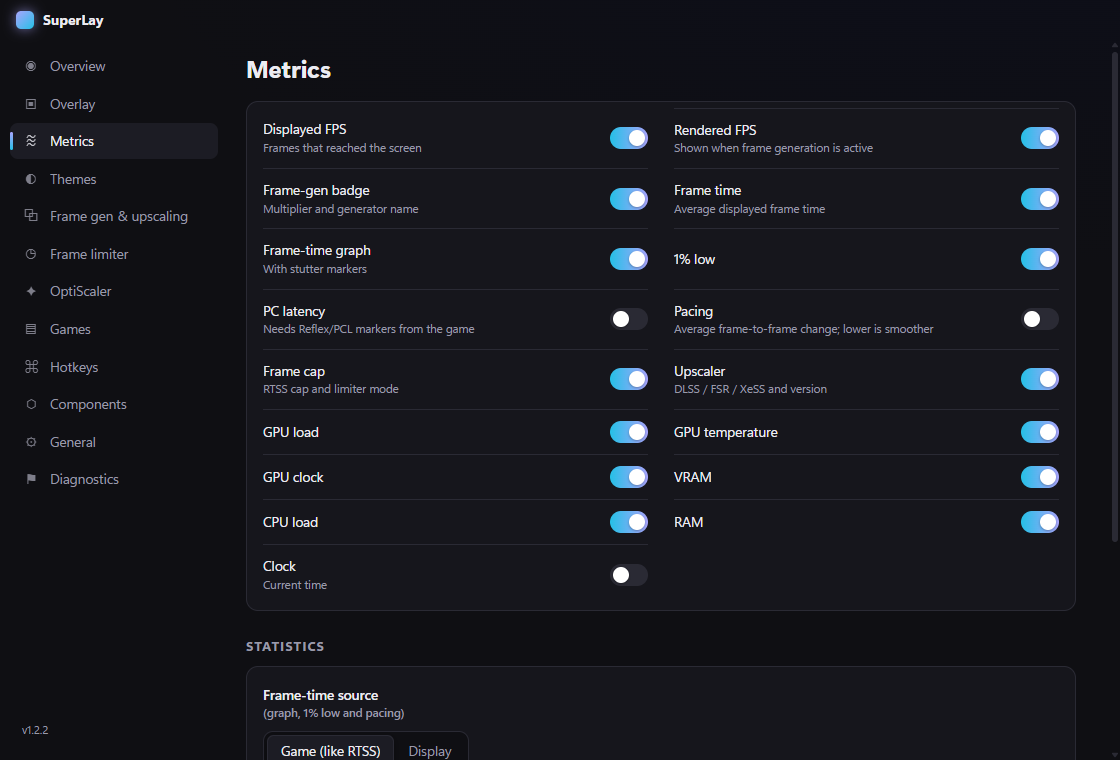
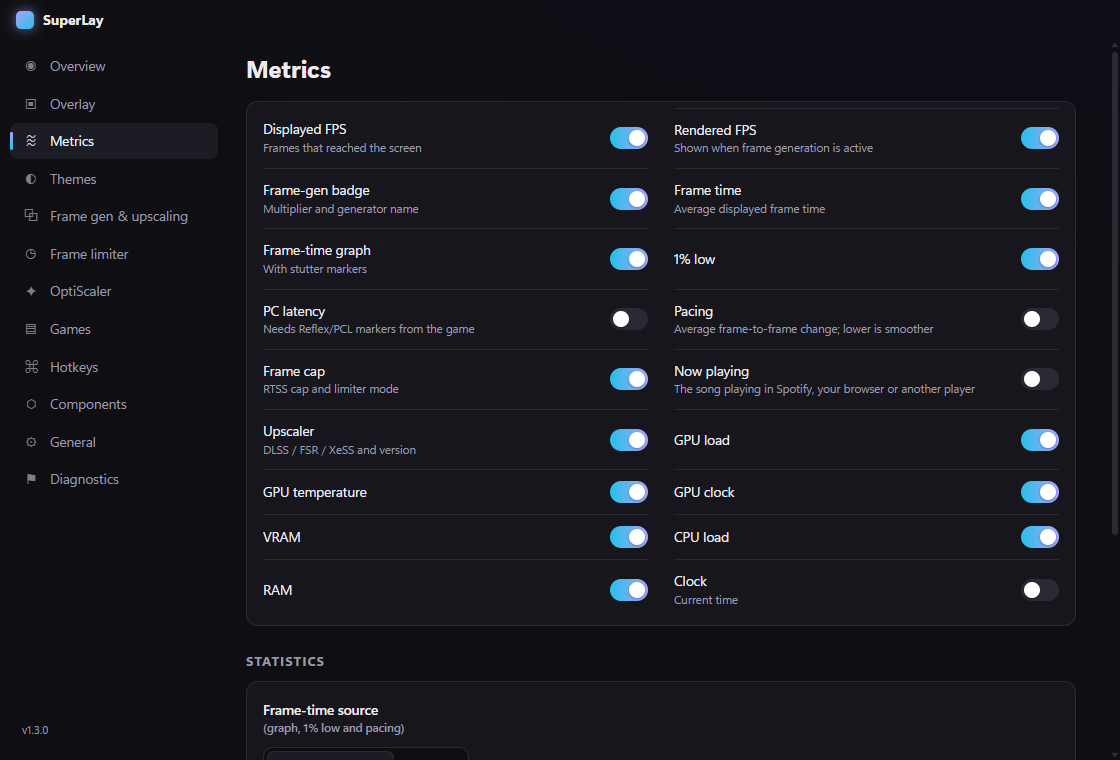
Detect Wuthering Waves-style frame gen; show caps; layout names
- Cadence detection looks for the heavy/light rhythm (1 light per heavy = 2x,
  2 = 3x) instead of a fixed 2.5x GPU-time ratio: Wuthering Waves' generated
  frames cost ~3.2 ms vs ~6.6 ms. GPU wait carries the rhythm when GPU busy
  converges in light scenes (9-32x split there); GPU time was rejected after a
  browser compositor fooled it. On after 3 agreeing windows, off after 3, and a
  1 s hold, so games that toggle FG in menus update promptly
  Replays: WuWa 90/92 ON (was 0), Witcher 3 variants 70-72/72, no-FG captures
  (Forza, Claude app with a forced FG hint) 0 ON. Live in WuWa: 69/72, the
  first 3 are warm-up
- "capped at N" next to the rendered count when FG output sits at the frame cap,
  so 90 rendered at a 180 cap reads clearly
- "Now playing" toggle on the Metrics page (synced with the Hotkeys page)
- Layout picker: labels match the shapes (Bar, Card, Pill; ids unchanged) and
  icons show a miniature of each overlay

diff --git a/src/main/presentmon.js b/src/main/presentmon.js
@@ -137,6 +137,7 @@ class PresentMon extends EventEmitter {
         display: idx('MsBetweenDisplayChange', 'msBetweenDisplayChange'),
         sim: idx('MsBetweenSimulationStart'),
         gpuBusy: idx('MsGPUBusy', 'msGPUActive'),
+        gpuWait: idx('MsGPUWait'),
         pcl: idx('MsPCLatency'),
         input: idx('MsAllInputToPhotonLatency', 'MsClickToPhotonLatency'),
         dropped: idx('Dropped'),
@@ -176,6 +177,7 @@ class PresentMon extends EventEmitter {
       type,
       sim: c.sim >= 0 ? num(f[c.sim]) : null,
       gpu: c.gpuBusy >= 0 ? num(f[c.gpuBusy]) : null,
+      gw: c.gpuWait >= 0 ? num(f[c.gpuWait]) : null,
       lat: (c.pcl >= 0 ? num(f[c.pcl]) : null) ?? (c.input >= 0 ? num(f[c.input]) : null),
     });
     if (ch.rows.length > 4000 && ch.rows[0].t < this.now - KEEP_MS) this.trim(ch);
@@ -234,7 +236,7 @@ class PresentMon extends EventEmitter {
 
     let dispN = 0, dispMs = 0, genN = 0, repeatN = 0, presN = 0, presMs = 0;
     let latSum = 0, latN = 0;
-    const gpu = [];
+    const gpu = [], gpuWait = [];
     const genTypes = new Set();
     let anyDisplay = false, anyType = false;
 
@@ -264,7 +266,10 @@ class PresentMon extends EventEmitter {
       if (!generated && r.between !== null && r.between > 0) { presN++; presMs += r.between; }
       if (r.lat !== null && r.lat > 0) { latSum += r.lat; latN++; }
       // 0 ms GPU busy is meaningful: untagged generated frames often show exactly that.
-      if (r.gpu !== null && r.gpu >= 0 && !generated) gpu.push(r.gpu);
+      if (!generated) {
+        if (r.gpu !== null && r.gpu >= 0) gpu.push(r.gpu);
+        if (r.gw !== null && r.gw >= 0) gpuWait.push(r.gw);
+      }
     }
 
     const presentFps = presMs > 0 ? (presN * 1000) / presMs : 0;
@@ -288,16 +293,18 @@ class PresentMon extends EventEmitter {
       } else if (simFps > 0 && displayedFps / simFps > 1.4) {
         renderedFps = simFps; multiplier = displayedFps / simFps; source = 'pcl';
       } else {
-        const m = this.cadenceMultiplier(pid, gpu);
+        // collected newest-first; the rhythm reads the same either way but keep it chronological
+        const m = this.cadenceMultiplier(pid, { busy: gpu.reverse(), wait: gpuWait.reverse() });
         if (m > 1) { multiplier = m; renderedFps = displayedFps / m; source = 'cadence'; }
       }
     }
-    // Hysteresis: FG turns on at once, but only turns off after 1.5 s without evidence, so a sparse signal
-    // can't make the badge blink. An explicit "off" setting applies immediately.
+    // Hysteresis: FG turns on at once, but only turns off after 1 s without evidence, so a sparse signal
+    // can't make the badge blink while games that really toggle FG (menus vs. world) still update promptly.
+    // An explicit "off" setting applies immediately.
     const hold = this.fgHold.get(pid);
     if (multiplier > 1.25) {
       this.fgHold.set(pid, { at: now, multiplier, source, name: fgName });
-    } else if (hold && now - hold.at < 1500 && multiplierSetting !== 'off' && displayedFps > 0) {
+    } else if (hold && now - hold.at < 1000 && multiplierSetting !== 'off' && displayedFps > 0) {
       ({ multiplier, source } = hold);
       fgName = fgName || hold.name;
       renderedFps = displayedFps / multiplier;
@@ -362,34 +369,55 @@ class PresentMon extends EventEmitter {
   }
 
   /**
-   * Generated frames are cheap on the GPU (an interpolation pass) while real frames carry the
-   * whole render. If per-present GPU busy time splits cleanly into a heavy and a light group,
-   * presents/heavy is the multiplier. Requires agreement across several windows before trusting it.
+   * Untagged frame generation shows up as a rhythm in per-present GPU work: each real frame (heavy: the whole
+   * render) is followed by N generated ones (light: an interpolation pass). Generated frames aren't always
+   * near-free (Wuthering Waves: ~3.2 ms vs ~6.6 ms), so instead of demanding a big ratio we look for the
+   * strict heavy/light rhythm, which ordinary rendering doesn't produce. Multiplier = N + 1.
+   * gpu: per-present GPU busy times in chronological order.
    */
-  cadenceMultiplier(pid, gpu) {
+  static cadenceVote(gpu, { minRatio = 1.5, minShare = 0.8 } = {}) {
+    if (gpu.length < 24) return 1;
+    // Split light/heavy at the threshold that best separates the two groups (Otsu).
+    const s = gpu.slice().sort((a, b) => a - b);
+    const total = s.reduce((a, b) => a + b, 0);
+    let best = null, lowSum = 0;
+    for (let i = 1; i < s.length; i++) {
+      lowSum += s[i - 1];
+      const nLo = i, nHi = s.length - i;
+      const mLo = lowSum / nLo, mHi = (total - lowSum) / nHi;
+      const between = nLo * nHi * (mHi - mLo) ** 2;
+      if (!best || between > best.between) best = { between, thr: (s[i - 1] + s[i]) / 2, mLo, mHi };
+    }
+    if (!best || best.mHi < Math.max(0.05, best.mLo) * minRatio) return 1;   // groups must clearly differ
+    // Lengths of light runs between heavy frames.
+    const runs = [];
+    let run = 0, started = false;
+    for (const v of gpu) {
+      if (v >= best.thr) { if (started) runs.push(run); run = 0; started = true; } else run++;
+    }
+    if (runs.length < 8) return 1;
+    const counts = {};
+    for (const r of runs) counts[r] = (counts[r] || 0) + 1;
+    const [k, n] = Object.entries(counts).sort((a, b) => b[1] - a[1])[0].map(Number);
+    return k >= 1 && k <= 3 && n / runs.length >= minShare ? k + 1 : 1;
+  }
+
+  /**
+   * Cadence vote from GPU busy and GPU wait, smoothed over recent windows: on after 3 agreeing votes, off
+   * after 3 "no FG" votes. GPU busy can lose the rhythm in light scenes (Wuthering Waves: real and generated
+   * frames both ~4.8 ms), while GPU wait keeps it with a large split (9-32x there). GPU wait must show a big
+   * split and a near-perfect rhythm; GPU time was tried and rejected: a browser's compositor fooled it.
+   */
+  cadenceMultiplier(pid, series) {
     let st = this.cadence.get(pid);
     if (!st) { st = { votes: [], value: 1 }; this.cadence.set(pid, st); }
-    let vote = 1;
-    if (gpu.length >= 24) {
-      const s = gpu.slice().sort((a, b) => a - b);
-      let best = null;
-      for (let i = Math.floor(s.length * 0.25); i <= Math.floor(s.length * 0.8); i++) {
-        const lo = s.slice(0, i), hi = s.slice(i);
-        const mlo = lo.reduce((a, b) => a + b, 0) / lo.length;
-        const mhi = hi.reduce((a, b) => a + b, 0) / hi.length;
-        const gap = s[i] / Math.max(0.05, s[i - 1]);
-        if (!best || gap > best.gap) best = { gap, ratio: mhi / Math.max(0.05, mlo), heavy: hi.length };
-      }
-      if (best && best.gap > 1.8 && best.ratio > 2.5) {
-        const m = Math.round(gpu.length / best.heavy);
-        if (m >= 2 && m <= 4) vote = m;
-      }
-    }
+    const vote = [
+      PresentMon.cadenceVote(series.busy),
+      PresentMon.cadenceVote(series.wait, { minRatio: 3, minShare: 0.9 }),
+    ].find((v) => v > 1) || 1;
     st.votes.push(vote);
-    if (st.votes.length > 6) st.votes.shift();
-    const agree = st.votes.filter((v) => v === vote).length;
-    if (agree >= 5) st.value = vote;
-    else if (st.votes.filter((v) => v === 1).length >= 4) st.value = 1;
+    if (st.votes.length > 4) st.votes.shift();
+    if (st.votes.filter((v) => v === vote).length >= 3) st.value = vote;
     return st.value;
   }
 

diff --git a/src/renderer/settings.html b/src/renderer/settings.html
@@ -62,9 +62,29 @@
           <div class="field">
             <div class="label">Layout</div>
             <div class="layout-pick" data-seg="overlay.layout">
-              <button data-v="pill"><span class="lp lp-pill"><i></i><i></i><i></i><i></i></span>Pill</button>
-              <button data-v="card"><span class="lp lp-card"><i></i><i></i><i></i></span>Card</button>
-              <button data-v="minimal"><span class="lp lp-min"><i></i></span>Minimal</button>
+              <!-- ids stay pill/card/minimal (saved settings); labels describe the shapes: Bar, Card, Pill -->
+              <button data-v="pill" title="A slim strip with every metric in one row">
+                <svg class="lp" viewBox="0 0 96 56" aria-hidden="true">
+                  <rect class="lp-ov" x="6" y="6" width="84" height="11" rx="5.5"/>
+                  <rect class="lp-acc" x="10" y="9" width="10" height="5" rx="1.5"/>
+                  <polyline class="lp-ln" points="24,13 27,11 30,12.5 33,10 36,12 39,11"/>
+                  <rect class="lp-dim" x="43" y="10" width="8" height="3" rx="1.5"/><rect class="lp-dim" x="54" y="10" width="8" height="3" rx="1.5"/>
+                  <rect class="lp-dim" x="65" y="10" width="8" height="3" rx="1.5"/><rect class="lp-dim" x="76" y="10" width="10" height="3" rx="1.5"/>
+                </svg>Bar</button>
+              <button data-v="card" title="A panel with large FPS, graph and meters">
+                <svg class="lp" viewBox="0 0 96 56" aria-hidden="true">
+                  <rect class="lp-ov" x="6" y="5" width="30" height="46" rx="5"/>
+                  <rect class="lp-acc" x="10" y="10" width="14" height="6" rx="1.5"/>
+                  <polyline class="lp-ln" points="10,25 14,22 18,24 22,20 26,23 32,21"/>
+                  <rect class="lp-dim" x="10" y="30" width="22" height="3" rx="1.5"/><rect class="lp-dim" x="10" y="36" width="18" height="3" rx="1.5"/>
+                  <rect class="lp-dim" x="10" y="42" width="20" height="3" rx="1.5"/>
+                </svg>Card</button>
+              <button data-v="minimal" title="Just the frame rate, as small as it gets">
+                <svg class="lp" viewBox="0 0 96 56" aria-hidden="true">
+                  <rect class="lp-ov" x="6" y="6" width="28" height="11" rx="5.5"/>
+                  <rect class="lp-acc" x="10" y="9" width="11" height="5" rx="1.5"/>
+                  <rect class="lp-ln2" x="23" y="9.5" width="7" height="4" rx="2"/>
+                </svg>Pill</button>
             </div>
           </div>
           <div class="field">

diff --git a/src/renderer/settings.css b/src/renderer/settings.css
@@ -101,11 +101,14 @@ input[type=range]:active::-webkit-slider-thumb { transform: scale(1.2); }
 .layout-pick button { display: flex; flex-direction: column; align-items: center; gap: 8px; padding: 12px 18px 9px; color: var(--muted); }
 .layout-pick button:hover, .pos-pick button:hover { transform: translateY(-1px); }
 .layout-pick button.on, .pos-pick button.on { border-color: var(--accent); box-shadow: 0 0 0 3px color-mix(in oklab, var(--accent) 25%, transparent); color: var(--text); }
-.lp { display: flex; gap: 3px; width: 88px; height: 46px; padding: 6px; border-radius: 7px; background: var(--panel2); }
-.lp i { display: block; border-radius: 3px; background: var(--line); }
-.lp-pill { align-items: center; } .lp-pill i { height: 14px; flex: 1; } .lp-pill i:first-child { background: var(--accent); flex: 1.3; }
-.lp-card { flex-direction: column; width: 56px; } .lp-card i { flex: 1; } .lp-card i:first-child { background: var(--accent); flex: 1.4; }
-.lp-min { align-items: flex-start; } .lp-min i { width: 26px; height: 12px; background: var(--accent); }
+/* Layout icons: a tiny screen with a miniature of the overlay where it sits (top-left). */
+.lp { width: 96px; height: 56px; border-radius: 7px; background: linear-gradient(160deg, var(--panel2), var(--bg)); box-shadow: 0 0 0 1px var(--line) inset; }
+.lp-ov { fill: color-mix(in oklab, var(--line) 90%, var(--text) 10%); }
+.lp-acc { fill: var(--accent); }
+.lp-dim { fill: color-mix(in oklab, var(--muted) 55%, transparent); }
+.lp-ln { fill: none; stroke: var(--accent2); stroke-width: 1.4; stroke-linejoin: round; stroke-linecap: round; }
+.lp-ln2 { fill: var(--accent2); }
+.layout-pick button.on .lp { box-shadow: 0 0 0 1px color-mix(in oklab, var(--accent) 60%, transparent) inset; }
 .pos-pick { display: grid; grid-template-columns: repeat(3, 44px); grid-template-rows: repeat(2, 30px); gap: 6px; padding: 8px; border-radius: 12px; background: var(--bg); border: 1px solid var(--line); width: max-content; }
 .pos-pick button { position: relative; }
 .pos-pick button.on::after { content: ''; position: absolute; inset: 8px 10px; border-radius: 3px; background: var(--accent); animation: chip 380ms var(--spring); }

diff --git a/test/run.js b/test/run.js
@@ -67,11 +67,29 @@ test('in-game FG via GPU cadence needs several agreeing windows', () => {
   feed(pm, rows);
   const hint = { fgHint: { library: 'FSR 3 FG', loaded: true } };
   let s;
-  for (let k = 0; k < 4; k++) s = pm.stats(100, hint);
-  assert.strictEqual(s.fg.active, false, 'should not trust a single window');
-  s = pm.stats(100, hint);
+  for (let k = 0; k < 2; k++) s = pm.stats(100, hint);
+  assert.strictEqual(s.fg.active, false, 'should not trust one or two windows');
+  s = pm.stats(100, hint);           // third agreeing window
   assert.strictEqual(s.fg.source, 'cadence');
   near(s.renderedFps, 80, 1, 'rendered');
+});
+
+test('cadence: Wuthering Waves rhythm (generated frames not free) and GPU-wait fallback', () => {
+  // Heavy 6.6 ms / light 3.2 ms alternating: only ~2x apart, but a strict rhythm.
+  const busy = Array.from({ length: 180 }, (_, i) => (i % 2 ? 3.2 + (i % 7) * 0.05 : 6.6 + (i % 5) * 0.05));
+  assert.strictEqual(PresentMon.cadenceVote(busy), 2);
+  // Light scene: busy converges (no usable rhythm) but GPU wait keeps a big split.
+  const flatBusy = Array.from({ length: 180 }, (_, i) => 4.8 + ((i * 7) % 5) * 0.04);
+  const wait = Array.from({ length: 180 }, (_, i) => (i % 2 ? 2.5 + (i % 3) * 0.1 : 0.1));
+  assert.strictEqual(PresentMon.cadenceVote(flatBusy), 1);
+  assert.strictEqual(PresentMon.cadenceVote(wait, { minRatio: 3, minShare: 0.9 }), 2);
+  // 3x: heavy, light, light
+  const triple = Array.from({ length: 180 }, (_, i) => (i % 3 === 0 ? 8 : 1));
+  assert.strictEqual(PresentMon.cadenceVote(triple), 3);
+  // Irregular bimodal noise (a browser's compositor) is not frame gen
+  let seed = 7; const rnd = () => ((seed = (seed * 16807) % 2147483647) / 2147483647);
+  const noise = Array.from({ length: 180 }, () => (rnd() < 0.5 ? 0.3 : 1.5));
+  assert.strictEqual(PresentMon.cadenceVote(noise), 1);
 });
 
 test('FG library loaded but uniform GPU cadence → FG off', () => {

diff --git a/src/renderer/settings.js b/src/renderer/settings.js
@@ -90,6 +90,7 @@
     ['latency', 'PC latency', 'Needs Reflex/PCL markers from the game'],
     ['pacing', 'Pacing', 'Average frame-to-frame change; lower is smoother'],
     ['limiter', 'Frame cap', 'RTSS cap and limiter mode'],
+    ['nowPlaying', 'Now playing', 'The song playing in Spotify, your browser or another player'],
     ['upscaler', 'Upscaler', 'DLSS / FSR / XeSS and version'],
     ['gpuLoad', 'GPU load', ''],
     ['gpuTemp', 'GPU temperature', ''],
@@ -101,8 +102,10 @@
   ];
   $('#metricToggles').innerHTML = METRICS.map(([k, n, d]) => `
     <label class="toggle-row"><span>${n}${d ? `<small>${d}</small>` : ''}</span><input type="checkbox" data-metric="${k}"><i class="sw"></i></label>`).join('');
-  $$('[data-metric]').forEach((el) => el.addEventListener('change', () => set(`metrics.${el.dataset.metric}`, el.checked)));
-  function syncMetrics() { $$('[data-metric]').forEach((el) => { el.checked = S.metrics[el.dataset.metric] !== false; }); }
+  // "Now playing" lives with the music settings (also on the Hotkeys page); the rest are overlay metrics.
+  const metricPath = (k) => (k === 'nowPlaying' ? 'media.showNowPlaying' : `metrics.${k}`);
+  $$('[data-metric]').forEach((el) => el.addEventListener('change', () => set(metricPath(el.dataset.metric), el.checked)));
+  function syncMetrics() { $$('[data-metric]').forEach((el) => { el.checked = get(S, metricPath(el.dataset.metric)) !== false; }); }
 
   // ---------------------------------------------------------------- presets
   $('#presets').innerHTML = Object.entries(presets).map(([k, p]) => `

diff --git a/src/renderer/overlay.js b/src/renderer/overlay.js
@@ -262,6 +262,10 @@
     // Driver FG (AFMF) multiplies frames after RTSS's cap; the graph shows displayed frames.
     const driverFg = fps?.fg?.active && fps.fg.source === 'frame-type';
     capLimit = lim ? lim.limit * (driverFg ? fps.fg.multiplier : 1) : 0;
+    // FG output pinned at the cap: say so, or "90 rendered" looks wrong next to a game that does 120 without FG.
+    const pinned = !!(fps?.fg?.active && capLimit && fps.displayedFps >= capLimit * 0.97);
+    $('fgCapped').hidden = !pinned;
+    if (pinned) $('fgCapped').textContent = `capped at ${Math.round(capLimit)}`;
     $('capChip').hidden = !lim;
     if (lim) $('capChip').textContent = `CAP ${+lim.limit.toFixed(2)}${{ 'front-edge': ' · FES', 'back-edge': ' · BES' }[lim.mode] || ''}`;
 
@@ -377,7 +381,7 @@
     let base = 118;
     demoTimer = setInterval(() => {
       const dt = cfg?.overlay?.updateMs || 250;
-      base += (Math.random() - 0.5) * 6; base = Math.max(110, Math.min(120, base)); // demo runs against a 120 fps cap
+      base += (Math.random() - 0.5) * 2; base = Math.max(118, Math.min(120, base)); // demo runs pinned at its 120 fps cap
       const mult = cfg?.framegen?.inGameMultiplier === 'off' ? 1 : (+cfg?.framegen?.inGameMultiplier || 2);
       const disp = base * mult;
       const frames = [];

diff --git a/src/main/main.js b/src/main/main.js
@@ -716,6 +716,9 @@ app.whenReady().then(() => {
   settings.onChange((data, patch) => {
     if (patch.overlay?.updateMs) startLoop();
     if (patch.hotkeys || patch.media) registerHotkeys();
+    if (patch.media?.showNowPlaying && overlayWin) {
+      media.state().then((res) => { if (res) overlayWin?.webContents.send('overlay:media', res); });
+    }
     if (patch.presentmon) startPresentMon();
     if (patch.general && 'launchAtStartup' in patch.general) app.setLoginItemSettings({ openAtLogin: data.general.launchAtStartup, args: ['--hidden'] });
     pushConfig();

diff --git a/src/renderer/overlay.html b/src/renderer/overlay.html
@@ -21,7 +21,7 @@
             <span class="chip fg-chip" id="fgChip" data-m="framegen" hidden>FG <b id="fgMult">2×</b></span>
           </div>
           <div class="fps-sub" id="fpsSub" data-m="renderedFps" hidden>
-            <span id="rendered">0</span> rendered<span class="src" id="fgSrc"></span>
+            <span id="rendered">0</span> rendered<span class="capped" id="fgCapped" hidden></span><span class="src" id="fgSrc"></span>
           </div>
         </div>
 

diff --git a/src/renderer/overlay.css b/src/renderer/overlay.css
@@ -96,6 +96,7 @@ body {
 .fps-sub #rendered { color: var(--text); font-weight: 600; }
 .fps-sub .src { margin-left: 6px; opacity: .75; font-size: 9.5px; letter-spacing: .04em; text-transform: uppercase; }
 .fps-sub .src:empty { display: none; }
+.fps-sub .capped { margin-left: 6px; font-size: 9.5px; font-weight: 700; letter-spacing: .04em; text-transform: uppercase; color: var(--accent2); }
 
 .chip {
   display: inline-flex; align-items: center; gap: 5px;

diff --git a/src/main/settings.js b/src/main/settings.js
@@ -75,7 +75,7 @@ const DEFAULTS = {
   media: {
     enabled: true,           // music hotkeys
     showToast: true,         // show the track on the overlay after a music hotkey
-    showNowPlaying: false,   // keep a "now playing" chip on the overlay
+    showNowPlaying: false,   // keep a "now playing" chip on the overlay (Metrics page toggle)
   },
   presentmon: {
     path: '',

diff --git a/README.md b/README.md
@@ -5,15 +5,15 @@ A minimal performance overlay for Windows games. It themes itself from each game
 ![SuperLay over Forza Horizon 6, themed from its cover art](docs/screenshots/ingame-forza.png)
 <sub>Live over Forza Horizon 6. The pink palette and backdrop come from the game's cover art, and FSR 4 is detected as active.</sub>
 
-![Pill layout with frame generation, upscaler and frame cap](docs/screenshots/overlay-pill.png)
+![Bar layout with frame generation, upscaler and frame cap](docs/screenshots/overlay-pill.png)
 
 | Card layout with frame generation | Per-game themes from cover art |
 |---|---|
 | ![Card layout preview showing 233 displayed and 116 rendered FPS with FG 2×](docs/screenshots/home-card.png) | ![Games page with Forza Horizon 6 and Wuthering Waves themes](docs/screenshots/games.png) |
 | **Frame gen and upscaling: every number shows its source** | **Overlay layout, position and sizing** |
 | ![Frame generation settings explaining measured, Reflex, estimated, Lossless Scaling and manual sources](docs/screenshots/framegen.png) | ![Overlay settings with layout and position pickers](docs/screenshots/overlay.png) |
-| **Theme presets and cover-art mode** | **Pill layout (default)** |
-| ![Theme settings with presets](docs/screenshots/themes.png) | ![Overview with the pill layout preview](docs/screenshots/home.png) |
+| **Theme presets and cover-art mode** | **Bar layout (default)** |
+| ![Theme settings with presets](docs/screenshots/themes.png) | ![Overview with the bar layout preview](docs/screenshots/home.png) |
 
 Regenerate the settings screenshots with `npm run shots`.
 
@@ -46,7 +46,7 @@ Frame capture works without admin if your account is in *Performance Log Users*;
 | Hotkey | Action |
 |---|---|
 | Alt+Shift+O | Show / hide overlay |
-| Alt+Shift+L | Cycle layout (pill → card → minimal) |
+| Alt+Shift+L | Cycle layout (bar → card → pill) |
 | Alt+Shift+S | Settings |
 | Ctrl+Alt+Space | Music: play / pause |
 | Ctrl+Alt+→ / ← | Music: next / previous track |
